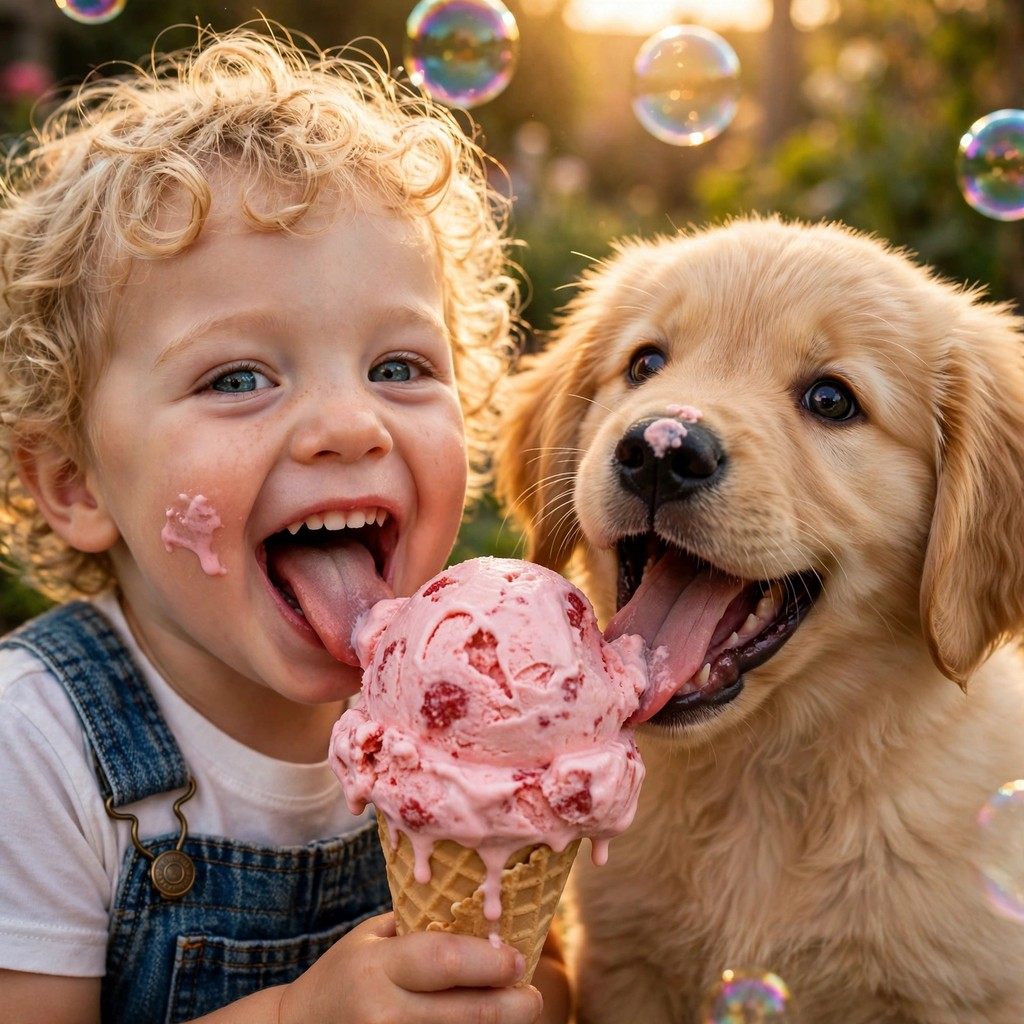
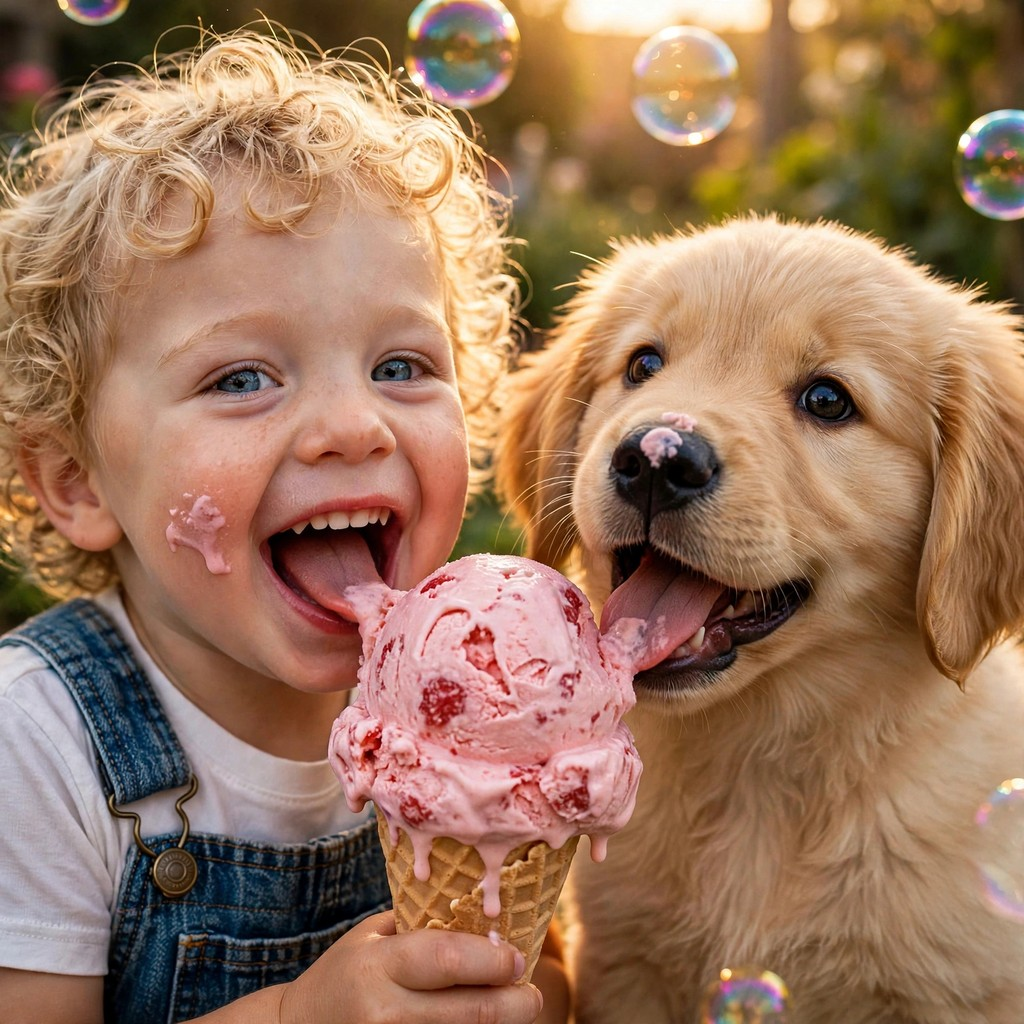
ai-happy-01 entry v5: same shared ice-cream lick, shorter natural tongues

diff --git a/README.md b/README.md
@@ -8,10 +8,10 @@ puppy's nose and another on the toddler's cheek. Iridescent soap bubbles
 float in warm golden light. Made to make the AI judge happy: two joyful
 faces front-on, one fresh specific moment of shared delight, and a bright
 pink cone that anchors the image even at small size. It replaces the
-earlier ice-cream image: in that one neither subject was actually licking
-the cone and the toddler's gaze was off-camera; here the shared lick is
-real, both eyes meet the camera, and the square 1024x1024 framing makes
-the faces and the cone read bigger at 300 pixels across.
+earlier ice-cream image: in that one the toddler's tongue was long, wide
+and drooping (the image's most exaggerated feature) and the puppy's tongue
+lolled just as long; here both tongues are short and natural, clearly
+licking the same scoop, with the same laughs, eye contact and framing.
 
 ## How it works
 
@@ -29,6 +29,6 @@ mkdir -p out && MAKEFUN_OUTPUT_DIR=out python3 main.py
 
 - `main.py` — the entry program
 - `entry.png` — the image (1024x1024 JPEG bytes in a file named `entry.png`,
-  245,270 bytes, under the 1 MiB limit; the rules allow JPEG data under
+  265,145 bytes, under the 1 MiB limit; the rules allow JPEG data under
   this name)
 - `LICENSE` — MIT
